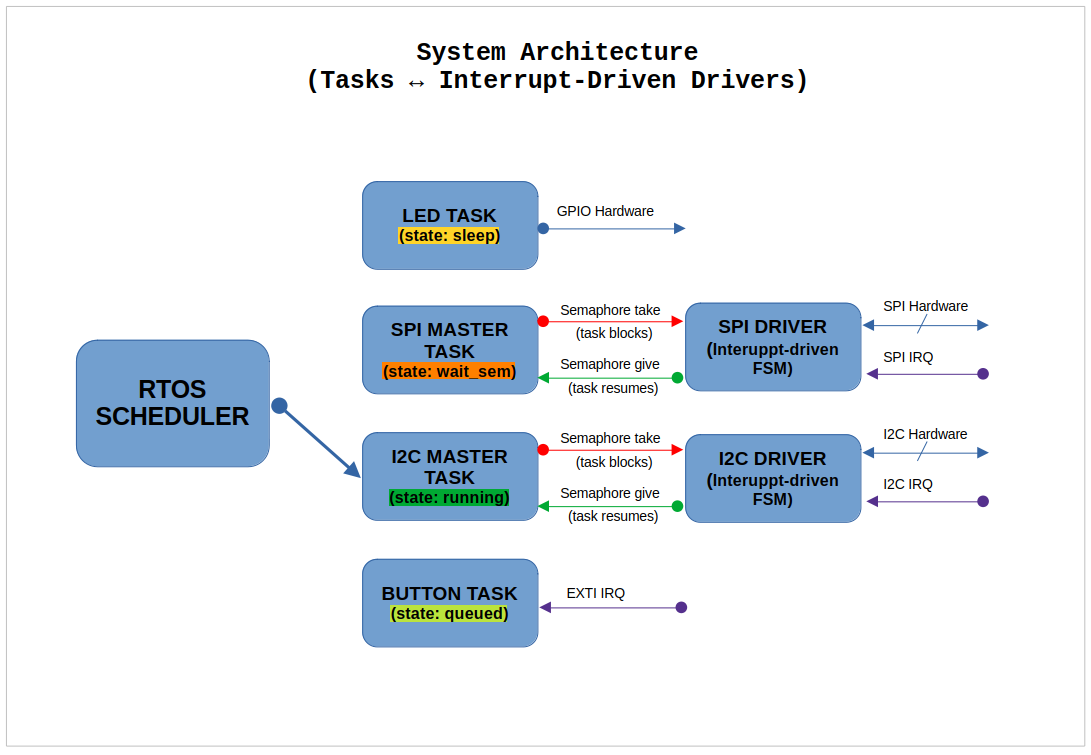
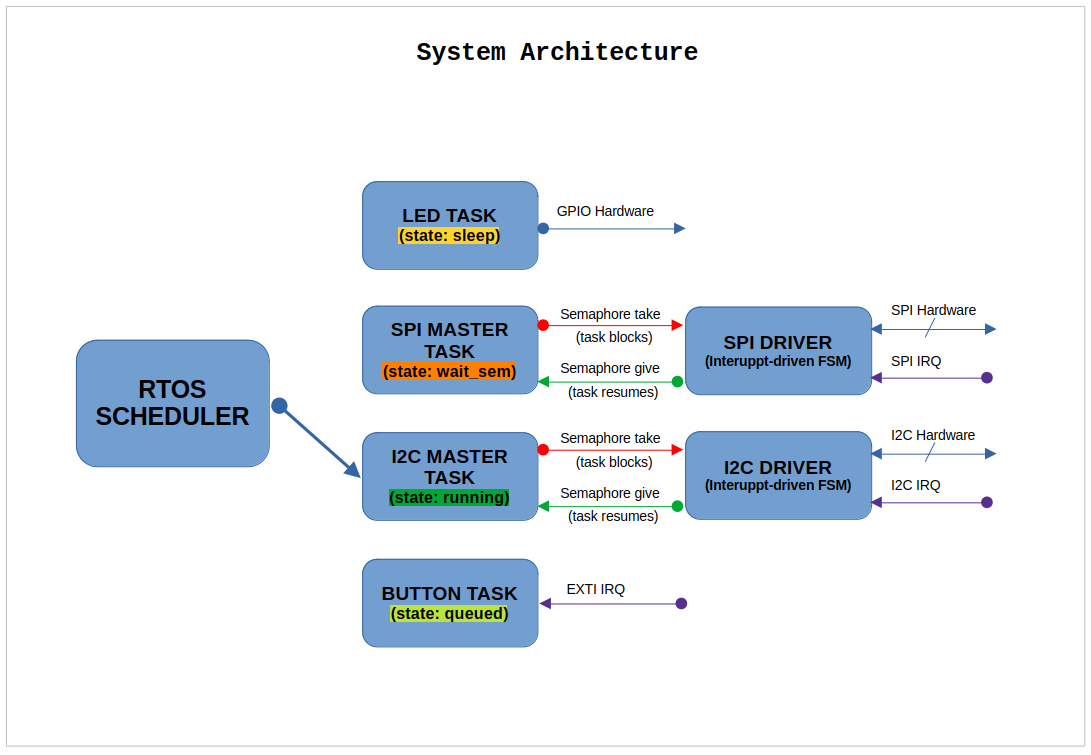
Update readme and system diagram

diff --git a/README.md b/README.md
@@ -9,45 +9,31 @@
 A **from-scratch bare-metal RTOS kernel** running on **STM32 NUCLEO-F446RE (Cortex-M4)**.
 
 This project explores how a Cortex-M behaves at runtime:  
-manual scheduling, context switching, stack orchestration, and interrupt-driven execution —  
+manual scheduling, context switching, stack separation, and interrupt-driven execution —  
 **without FreeRTOS, CMSIS-OS, or external abstractions.**
-
-The focus is on understanding the system **from the exception level down to the stack frame**.
 
 For architecture diagrams and FSM visualizations: [Documents](Documents/).
 
 ---
 
-## Kernel Highlights
-
-- Pure bare-metal implementation  
-- Manual context switching via **PendSV**
-- Explicit **PSP / MSP separation**
-- Handcrafted **initial stack frames (synthetic exception frames)**
-- Deterministic scheduler behavior
-- Debugger-driven, hardware-first development
-
----
-
 ### RTOS Core
+
 - TIM2 as system tick (1 kHz time base)
 - SVC used for controlled first task start
 - PendSV as the only context switching mechanism
-- Static TCB array with explicit stack ownership per task
+- Static TCB array with per-task stack ownership
 
 ### Tasks
+
 - LED task (visible execution)
 - Button task (EXTI-driven + debounce handling)
-- **SPI task (loopback validation, high-rate transactions)**
+- **SPI task (loopback validation)**
 - I2C Master task (write-only)
 - Idle task (WFI-based)
 
 ---
 
-## Context Switching (Cortex-M Deep Dive)
-
-The system performs manual context switching using PendSV,  
-with explicit control over PSP and exception stack frames.
+## Context Switching
 
 ![rtos switch context scheme](Documents/RTOS_scheme.jpg)
 
@@ -64,7 +50,7 @@ with explicit control over PSP and exception stack frames.
 
 - Priority-based preemptive scheduling  
 - Fair round-robin within equal priority levels  
-- Binary Semaphores used for signaling ISR-to-task signaling and driver completion events
+- Binary Semaphores used for ISR-to-task signaling and driver completion events
 
 **Lightweight stub tasks are used to validate scheduling behavior under different priorities.**
 
@@ -74,27 +60,20 @@ with explicit control over PSP and exception stack frames.
 
 ![SPI Driver FSM](Documents/SPI_MASTER_DRVR_FSM.jpg)
 
-The SPI driver is implemented as an FSM progressing on TXE/RXNE events.
+The SPI driver is implemented as an FSM driven by TXE/RXNE IRQ events.
 
-The system is validated using a high-rate SPI workload in loopback (MOSI → MISO),  
-stressing scheduling and exposing system limits.
-
-Observed effects include interrupt storms, scheduler starvation,  
-and sensitivity to interrupt priority configuration.
+The system is validated using a high-rate SPI loopback workload (MOSI → MISO)
+to observe scheduling behavior under heavy interrupt load.
 
 ### Dual-FSM Architecture
 
 The design separates responsibilities between two state machines:
 
 - **Task-level FSM**  
-  Defines the transaction.  
-  Prepares data and blocks under the scheduler.
+  Defines what transaction should be executed, prepares data, initiates the transaction, and blocks under the scheduler.
 
 - **Driver/ISR-level FSM**  
-  Executes the transaction on the hardware lines.  
-  Advances tx/rx and signals completion.
-
-This separation decouples scheduling from hardware execution while preserving timing control.
+  Executes the transaction on the hardware lines, advances tx/rx, and signals task completion.
 
 > *On microcontrollers, parallelism is an art.*
 
@@ -102,30 +81,17 @@ This separation decouples scheduling from hardware execution while preserving ti
 
 ## Interrupt-Driven I2C Master (Write-Only)
 
-As an additional validation path, the kernel includes an  
-**ISR-driven I2C Master FSM**.
+The kernel also includes an **ISR-driven I2C Master FSM**.
 
 - Task prepares transaction parameters
 - ISR advances strictly on hardware events (**SB / ADDR / TXE / BTF**)
 
 ---
 
-## Debugging Focus
+## Debugging & Insights
 
-- HardFault root-cause analysis (stack + exception return)
-- Stack alignment and corruption tracking  
-- PSP/MSP transition correctness under interrupt load  
-- Interrupt priority tuning and storm analysis  
-
-The goal is not just to make it run — but to understand **why it runs, and when it breaks.**
-
----
-
-## Hardware
-
-- STM32 NUCLEO-F446RE  
-- TIM2 scheduler tick  
-- GPIO + EXTI  
-- SPI2  
-- I2C1  
+- Interrupt storms can starve the scheduler if peripheral IRQs are not tightly controlled.  
+- Preemption alone does not ensure fairness — tasks must yield or block to avoid CPU starvation.
+- Correct exception stack layout is mandatory for reliable context switching.  
+- Breakpoints change system timing and hardware behavior (e.g., RXNE flag), so execution may not match real conditions.
 
